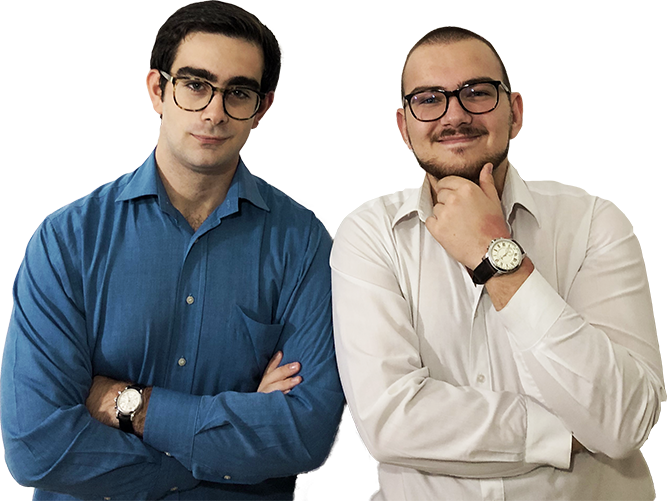
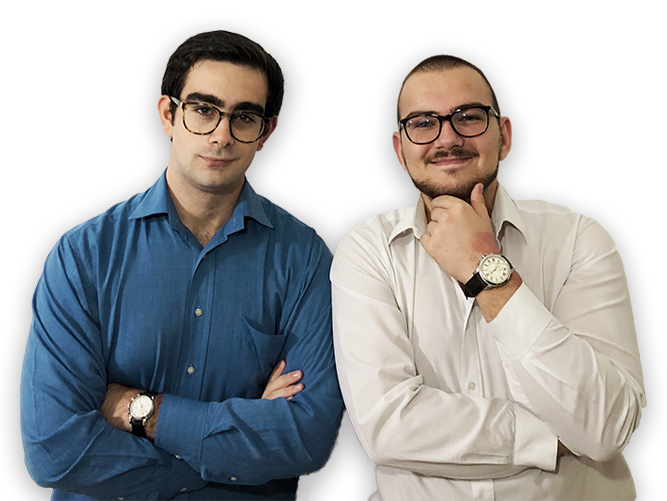
Table goal
aggiornata la tabella con i progressi, rimossa la sezione instagram, aggiunta ombra alla foto

diff --git a/index.html b/index.html
@@ -91,7 +91,7 @@
                         </thead>
                         <tbody>
                           <tr>
-                            <th class="bg-warning" scope="row"></th>
+                            <th class="bg-success" scope="row"></th>
                             <td><strong>Creazione di un organo scolastico previsto per tutte le scuole, ma che al Giorgi manca: il Comitato Studentesco, che con cadenza periodica si riunisce per risolvere le problematiche sorte in assemblea di classe.</strong> <i><small>[come previsto dall' art.43 dpr 416]</small></i></td>
                           </tr>
                           <tr>
@@ -104,11 +104,11 @@
                           </tr>
                           <tr>
                             <th class="bg-success" scope="row"></th>
-                            <td><strong>Utilizzo delle Assemblee d'Istituto per fini utili alla comunità scolastica, diciamo basta alla visione di film INUTILI.</strong> <i><small>[sperando in un ritorno alla normalità]</small></i></td>
+                            <td><strong>Utilizzo delle Assemblee d'Istituto per fini utili alla comunità scolastica. </strong> <i><small>[sperando in un ritorno alla normalità]</small></i></td>
                           </tr>
                         </tbody>
                       </table>
-                    <p><strong><i>-Daniele Panarese <br>-Giacomo Carlucci</i></strong></p>
+                    <p><strong><i>Se lo status è <span class="green">verde</span> l'obiettivo è stato realizzato, se <span class="orange">arancione </span> ci stiamo lavorando, se <span class="orange-soft"> arancione chiaro</span> è possibile ma non ha avuto abbastanza richieste.</i></strong><br><i>-Daniele Panarese <br>-Giacomo Carlucci</i></p>
                 </div>
             </div>
         </section>
@@ -118,10 +118,6 @@
                 <div class="row justify-content-center">
                     <div class="col-lg-8 text-center">
                         <h2 class="mt-0">Restiamo in contatto!</h2>
-                        <hr class="divider my-4" />
-                        <a  href="https://instagram.com/scuola.viva">Seguici su Instagram</a>
-                        <blockquote class="instagram-media mt-3 mr-auto ml-auto" data-instgrm-captioned data-instgrm-permalink="https://www.instagram.com/p/CFmScp6BCYt/?utm_source=ig_embed&amp;utm_campaign=loading" data-instgrm-version="13" style=" background:#FFF; border:0; border-radius:3px; box-shadow:0 0 1px 0 rgba(0,0,0,0.5),0 1px 10px 0 rgba(0,0,0,0.15); margin: 1px; max-width:540px; min-width:326px; padding:0; width:99.375%; width:-webkit-calc(100% - 2px); width:calc(100% - 2px);"><div style="padding:16px;"> <a href="https://www.instagram.com/p/CFmScp6BCYt/?utm_source=ig_embed&amp;utm_campaign=loading" style=" background:#FFFFFF; line-height:0; padding:0 0; text-align:center; text-decoration:none; width:100%;" target="_blank"> <div style=" display: flex; flex-direction: row; align-items: center;"> <div style="background-color: #F4F4F4; border-radius: 50%; flex-grow: 0; height: 40px; margin-right: 14px; width: 40px;"></div> <div style="display: flex; flex-direction: column; flex-grow: 1; justify-content: center;"> <div style=" background-color: #F4F4F4; border-radius: 4px; flex-grow: 0; height: 14px; margin-bottom: 6px; width: 100px;"></div> <div style=" background-color: #F4F4F4; border-radius: 4px; flex-grow: 0; height: 14px; width: 60px;"></div></div></div><div style="padding: 19% 0;"></div> <div style="display:block; height:50px; margin:0 auto 12px; width:50px;"><svg width="50px" height="50px" viewBox="0 0 60 60" version="1.1" xmlns="https://www.w3.org/2000/svg" xmlns:xlink="https://www.w3.org/1999/xlink"><g stroke="none" stroke-width="1" fill="none" fill-rule="evenodd"><g transform="translate(-511.000000, -20.000000)" fill="#000000"><g><path d="M556.869,30.41 C554.814,30.41 553.148,32.076 553.148,34.131 C553.148,36.186 554.814,37.852 556.869,37.852 C558.924,37.852 560.59,36.186 560.59,34.131 C560.59,32.076 558.924,30.41 556.869,30.41 M541,60.657 C535.114,60.657 530.342,55.887 530.342,50 C530.342,44.114 535.114,39.342 541,39.342 C546.887,39.342 551.658,44.114 551.658,50 C551.658,55.887 546.887,60.657 541,60.657 M541,33.886 C532.1,33.886 524.886,41.1 524.886,50 C524.886,58.899 532.1,66.113 541,66.113 C549.9,66.113 557.115,58.899 557.115,50 C557.115,41.1 549.9,33.886 541,33.886 M565.378,62.101 C565.244,65.022 564.756,66.606 564.346,67.663 C563.803,69.06 563.154,70.057 562.106,71.106 C561.058,72.155 560.06,72.803 558.662,73.347 C557.607,73.757 556.021,74.244 553.102,74.378 C549.944,74.521 548.997,74.552 541,74.552 C533.003,74.552 532.056,74.521 528.898,74.378 C525.979,74.244 524.393,73.757 523.338,73.347 C521.94,72.803 520.942,72.155 519.894,71.106 C518.846,70.057 518.197,69.06 517.654,67.663 C517.244,66.606 516.755,65.022 516.623,62.101 C516.479,58.943 516.448,57.996 516.448,50 C516.448,42.003 516.479,41.056 516.623,37.899 C516.755,34.978 517.244,33.391 517.654,32.338 C518.197,30.938 518.846,29.942 519.894,28.894 C520.942,27.846 521.94,27.196 523.338,26.654 C524.393,26.244 525.979,25.756 528.898,25.623 C532.057,25.479 533.004,25.448 541,25.448 C548.997,25.448 549.943,25.479 553.102,25.623 C556.021,25.756 557.607,26.244 558.662,26.654 C560.06,27.196 561.058,27.846 562.106,28.894 C563.154,29.942 563.803,30.938 564.346,32.338 C564.756,33.391 565.244,34.978 565.378,37.899 C565.522,41.056 565.552,42.003 565.552,50 C565.552,57.996 565.522,58.943 565.378,62.101 M570.82,37.631 C570.674,34.438 570.167,32.258 569.425,30.349 C568.659,28.377 567.633,26.702 565.965,25.035 C564.297,23.368 562.623,22.342 560.652,21.575 C558.743,20.834 556.562,20.326 553.369,20.18 C550.169,20.033 549.148,20 541,20 C532.853,20 531.831,20.033 528.631,20.18 C525.438,20.326 523.257,20.834 521.349,21.575 C519.376,22.342 517.703,23.368 516.035,25.035 C514.368,26.702 513.342,28.377 512.574,30.349 C511.834,32.258 511.326,34.438 511.181,37.631 C511.035,40.831 511,41.851 511,50 C511,58.147 511.035,59.17 511.181,62.369 C511.326,65.562 511.834,67.743 512.574,69.651 C513.342,71.625 514.368,73.296 516.035,74.965 C517.703,76.634 519.376,77.658 521.349,78.425 C523.257,79.167 525.438,79.673 528.631,79.82 C531.831,79.965 532.853,80.001 541,80.001 C549.148,80.001 550.169,79.965 553.369,79.82 C556.562,79.673 558.743,79.167 560.652,78.425 C562.623,77.658 564.297,76.634 565.965,74.965 C567.633,73.296 568.659,71.625 569.425,69.651 C570.167,67.743 570.674,65.562 570.82,62.369 C570.966,59.17 571,58.147 571,50 C571,41.851 570.966,40.831 570.82,37.631"></path></g></g></g></svg></div><div style="padding-top: 8px;"> <div style=" color:#3897f0; font-family:Arial,sans-serif; font-size:14px; font-style:normal; font-weight:550; line-height:18px;"> Visualizza questo post su Instagram</div></div><div style="padding: 12.5% 0;"></div> <div style="display: flex; flex-direction: row; margin-bottom: 14px; align-items: center;"><div> <div style="background-color: #F4F4F4; border-radius: 50%; height: 12.5px; width: 12.5px; transform: translateX(0px) translateY(7px);"></div> <div style="background-color: #F4F4F4; height: 12.5px; transform: rotate(-45deg) translateX(3px) translateY(1px); width: 12.5px; flex-grow: 0; margin-right: 14px; margin-left: 2px;"></div> <div style="background-color: #F4F4F4; border-radius: 50%; height: 12.5px; width: 12.5px; transform: translateX(9px) translateY(-18px);"></div></div><div style="margin-left: 8px;"> <div style=" background-color: #F4F4F4; border-radius: 50%; flex-grow: 0; height: 20px; width: 20px;"></div> <div style=" width: 0; height: 0; border-top: 2px solid transparent; border-left: 6px solid #f4f4f4; border-bottom: 2px solid transparent; transform: translateX(16px) translateY(-4px) rotate(30deg)"></div></div><div style="margin-left: auto;"> <div style=" width: 0px; border-top: 8px solid #F4F4F4; border-right: 8px solid transparent; transform: translateY(16px);"></div> <div style=" background-color: #F4F4F4; flex-grow: 0; height: 12px; width: 16px; transform: translateY(-4px);"></div> <div style=" width: 0; height: 0; border-top: 8px solid #F4F4F4; border-left: 8px solid transparent; transform: translateY(-4px) translateX(8px);"></div></div></div> <div style="display: flex; flex-direction: column; flex-grow: 1; justify-content: center; margin-bottom: 24px;"> <div style=" background-color: #F4F4F4; border-radius: 4px; flex-grow: 0; height: 14px; margin-bottom: 6px; width: 224px;"></div> <div style=" background-color: #F4F4F4; border-radius: 4px; flex-grow: 0; height: 14px; width: 144px;"></div></div></a><p style=" color:#c9c8cd; font-family:Arial,sans-serif; font-size:14px; line-height:17px; margin-bottom:0; margin-top:8px; overflow:hidden; padding:8px 0 7px; text-align:center; text-overflow:ellipsis; white-space:nowrap;"><a href="https://www.instagram.com/p/CFmScp6BCYt/?utm_source=ig_embed&amp;utm_campaign=loading" style=" color:#c9c8cd; font-family:Arial,sans-serif; font-size:14px; font-style:normal; font-weight:normal; line-height:17px; text-decoration:none;" target="_blank">Un post condiviso da Scuola Viva (@scuola.viva)</a></p></div></blockquote> <script async src="//www.instagram.com/embed.js"></script>                        
-                        <br>
                         <hr class="divider my-4" />
                         <br>
                     </div>

diff --git a/css/styles.css b/css/styles.css
@@ -77,6 +77,8 @@ body {
   background-color: #043762;
 }
 
+
+
 [tabindex="-1"]:focus:not(:focus-visible) {
   outline: 0 !important;
 }
@@ -206,6 +208,18 @@ pre {
 
 .logos-15{
   width: 15%;
+}
+
+.green{
+  color: #28a745;
+}
+
+.orange{
+  color: #ffc107;
+}
+
+.orange-soft{
+  color: #ffeeba;
 }
 
 figure {
